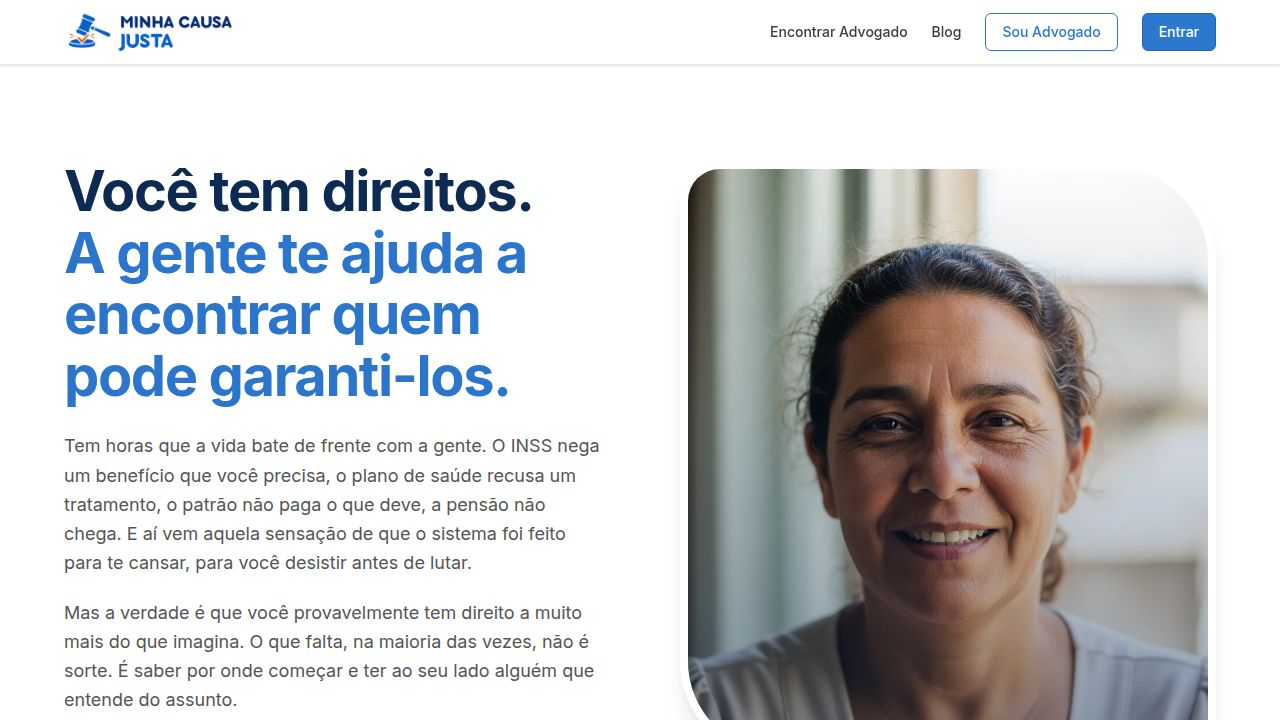
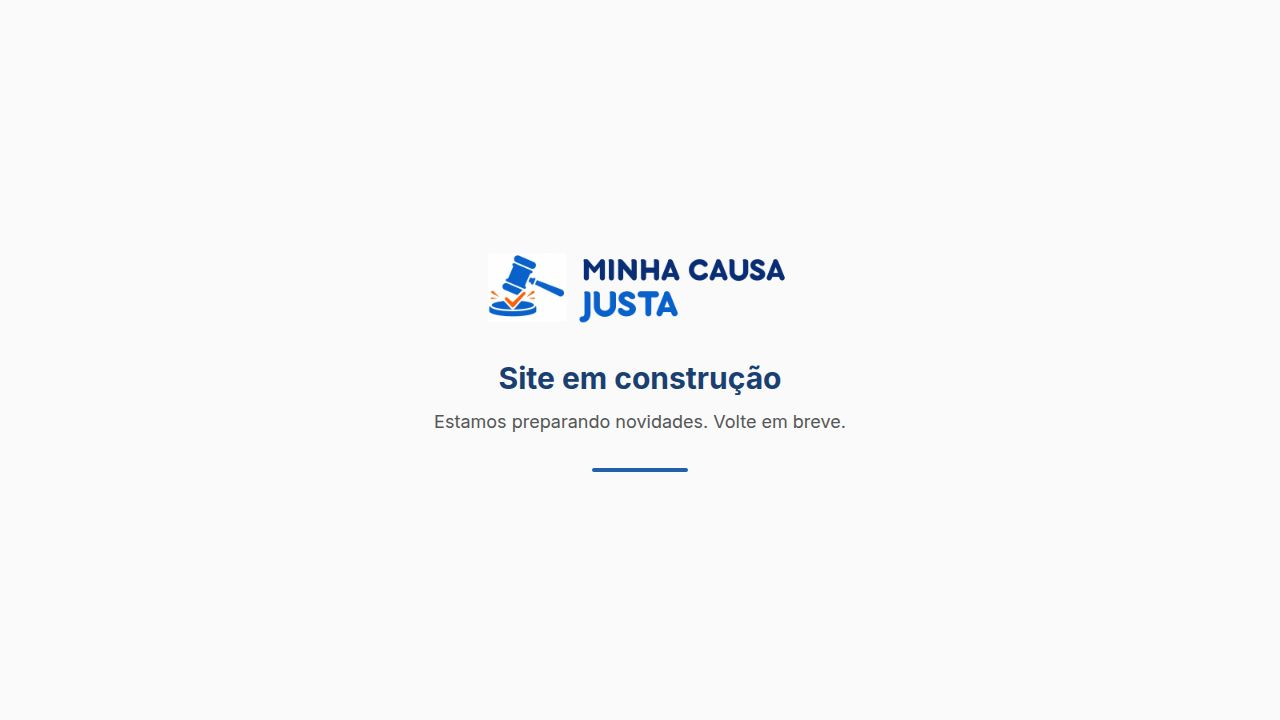
Enable maintenance mode to display a construction message
Add a maintenance page and conditional rendering in App.tsx to show a "Site em construção" message with the logo, while keeping all existing code intact.

Replit-Commit-Author: Agent
Replit-Commit-Session-Id: 36ad0d7c-d41d-45f5-adae-abe5e839c8b2
Replit-Commit-Checkpoint-Type: full_checkpoint
Replit-Commit-Event-Id: 12bc8e77-3eb2-4d3e-8f31-d55305297212
Replit-Commit-Screenshot-Url: https://storage.googleapis.com/screenshot-production-us-central1/c9af5688-d051-4bac-9de2-b3f0edbbadb6/36ad0d7c-d41d-45f5-adae-abe5e839c8b2/pZDGpzc
Replit-Helium-Checkpoint-Created: true

diff --git a/artifacts/minha-causa-justa/src/pages/manutencao.tsx b/artifacts/minha-causa-justa/src/pages/manutencao.tsx
@@ -1,0 +1,29 @@
+import logoUrl from "@assets/minhacausajusta_1782681470221.webp";
+
+export default function Manutencao() {
+  return (
+    <div className="flex min-h-[100dvh] flex-col items-center justify-center bg-neutral-50 px-6 py-16 text-center">
+      <div className="flex w-full max-w-md flex-col items-center gap-8">
+        <img
+          src={logoUrl}
+          alt="Minha Causa Justa"
+          className="h-16 w-auto sm:h-20"
+        />
+
+        <div className="flex flex-col gap-3">
+          <h1 className="text-2xl font-bold text-primary-800 sm:text-3xl">
+            Site em construção
+          </h1>
+          <p className="text-base text-neutral-600 sm:text-lg">
+            Estamos preparando novidades. Volte em breve.
+          </p>
+        </div>
+
+        <div
+          className="h-1 w-24 rounded-full bg-primary-600"
+          aria-hidden="true"
+        />
+      </div>
+    </div>
+  );
+}

diff --git a/artifacts/minha-causa-justa/src/App.tsx b/artifacts/minha-causa-justa/src/App.tsx
@@ -32,7 +32,13 @@ import PainelPerfil from "@/pages/painel-perfil";
 import PainelMetricas from "@/pages/painel-metricas";
 import PainelAssinatura from "@/pages/painel-assinatura";
 import Admin from "@/pages/admin";
+import Manutencao from "@/pages/manutencao";
 import logoUrl from "@assets/minhacausajusta_1782681470221.webp";
+
+// Interruptor de manutenção. Enquanto "true", o site inteiro exibe apenas a
+// página "Site em construção". Para religar o site normalmente, basta trocar
+// para "false" (nada foi apagado).
+const MODO_MANUTENCAO = true;
 
 declare global {
   interface Window {
@@ -284,6 +290,10 @@ function ClerkProviderWithRoutes() {
 }
 
 function App() {
+  if (MODO_MANUTENCAO) {
+    return <Manutencao />;
+  }
+
   return (
     <WouterRouter base={basePath}>
       <ClerkProviderWithRoutes />